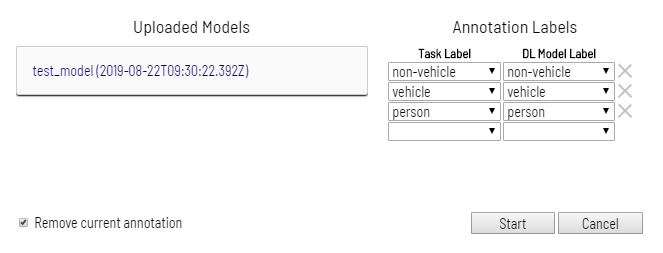
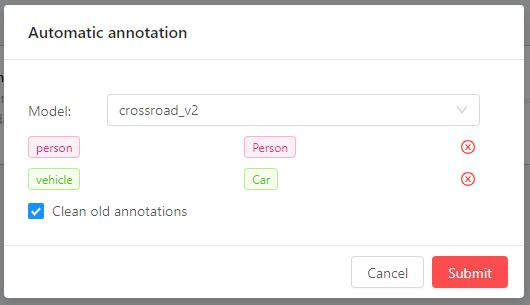
Updating text and images in the Auto Annotation section
Changing the section from "auto annotation" to "Automatic annotation"

Changed region(s): [[0.0, 0.0, 1.0, 1.0], [0.6642, 0.083, 0.8755, 0.1383]]

diff --git a/cvat/apps/documentation/user_guide.md b/cvat/apps/documentation/user_guide.md
@@ -31,7 +31,7 @@
     - [Points in annotation mode](#points-in-annotation-mode)
     - [Linear interpolation with one point](#linear-interpolation-with-one-point)
   - [Annotation with Auto Segmentation](#annotation-with-auto-segmentation)
-  - [Auto annotation](#auto-annotation)
+  - [Automatic annotation](#auto-annotation)
   - [Shape grouping](#shape-grouping)
   - [Filter](#filter)
   - [Analytics](#analytics)
@@ -1078,50 +1078,44 @@ a shape is created and you can work with it as a polygon.
 
 ![](static/documentation/images/gif009_DETRAC.gif)
 
-## Auto annotation
+## Automatic annotation
 
-1.  First you need to upload deep learning (DL) models using model manager.
-    Only models in OpenVINO™ toolkit format are supported.
-    If you would like to annotate a task with a custom model please convert it
-    to the intermediate representation (IR) format via the model optimizer tool.
-    See [OpenVINO documentation](https://software.intel.com/en-us/articles/OpenVINO-InferEngine) for details.
+Automatic Annotation is used for creating preliminary annotation. 
+To use Automatic Annotation you need a DL model. You can use primary models or models uploaded by a user. 
+You can find the list of available models in the ``Models`` section.
 
-    ![](static/documentation/images/image099.jpg)
+1.  To launch automatic annotation, you should open the dashboard and find a task which you want to annotate. 
+Then click the ``Actions`` button and choose option ``Automatic Annotation`` from the dropdown menu.
 
-1.  Enter model name, and select model file using "Select files" button. To annotate a task with a custom model
-    you need to prepare 4 files:
-    - ``Model config`` (*.xml) - a text file with network configuration. 
-    - ``Model weights`` (*.bin) - a binary file with trained weights. 
-    - ``Label map`` (*.json) - a simple json file with label_map dictionary like an object with 
-    string values for label numbers.
-    - ``Interpretation script`` (*.py) - a file used to convert net output layer to a predefined structure 
-    which can be processed by CVAT. 
-    More about creating model files can be found [here](/cvat/apps/auto_annotation).
+    ![](static/documentation/images/image119_DETRAC.jpg)
 
-    ![](static/documentation/images/image104.jpg)
-
-1.  After downloading a model you have to  create a task or find an already created one and
-    click ``Run Auto Annotation`` button.
-
-    ![](static/documentation/images/image119.jpg)
-
-1.  In dialog window select a model you need. If it's necessary select the ``Delete current annotation`` checkbox.
-    Adjust the labels so that the task labels will correspond to the labels of the DL model.
-    Click ``Start`` to begin the auto annotatiton process.
+1.  In dialogue window select a model you need. DL models are created for specific labels, e.g. 
+the Crossroad model was created was taught using footage from cameras located above the highway, 
+which is you should use this model with the tasks with similar camera angles. 
+If it's necessary select the ``Clean old annotations`` checkbox. 
+Adjust the labels so that the task labels will correspond to the labels of the DL model. 
+For example, let’s consider a task where you have to annotate labels “car” and “person”. 
+In this case you should choose the “person” label from the model to connect to the “person” label in the task. 
+As for the “car” label, you should choose the most fitting label available in the model - the “vehicle” label. 
+Choosing the “vehicle” label implies annotation of all vehicles and however the task requires to annotate cars only, 
+in this case using auto annotation will help you to complete the task faster. 
+Click ``Submit`` to begin the automatic annotation process.
 
     ![](static/documentation/images/image120.jpg)
 
-1.  At runtime, you can see percentage of completion. You can also cancel the auto annotation
-    process by clicking ``Cancel Auto Annotation``
+1.  At runtime, you can see percentage of completion.
 
-    ![](static/documentation/images/image121.jpg)
+    ![](static/documentation/images/image121_DETRAC.jpg)
 
 1.  As a result, you will get an annotation with separate bounding boxes (or other shapes)
 
     ![](static/documentation/images/gif014_DETRAC.gif)
 
 1.  Separated bounding boxes can be edited by removing false positives, adding unlabeled objects, and
-    merging into tracks using ``Merge Shape``
+merging into tracks using ``ReID merge``. Click the ``ReID merge`` button in the menu. 
+You can use the default settings (for more information click [here](cvat/apps/reid/README.md)). 
+To launch the merging process click ``Submit``. Each frame of the track will be a key. 
+1.  You can remove false positives and edit tracks using ``Split`` and ``Merge`` functions.
 
     ![](static/documentation/images/gif015_DETRAC.gif)
 
